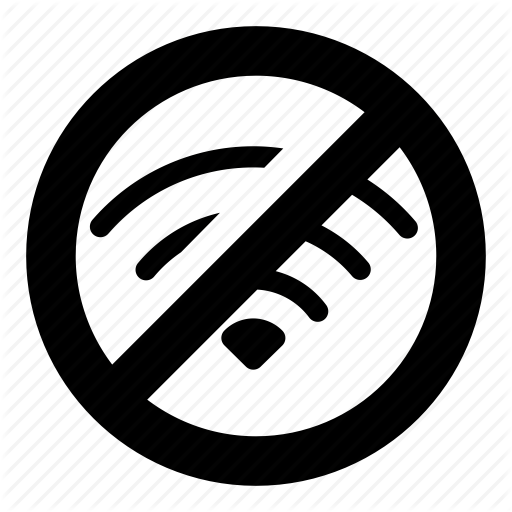
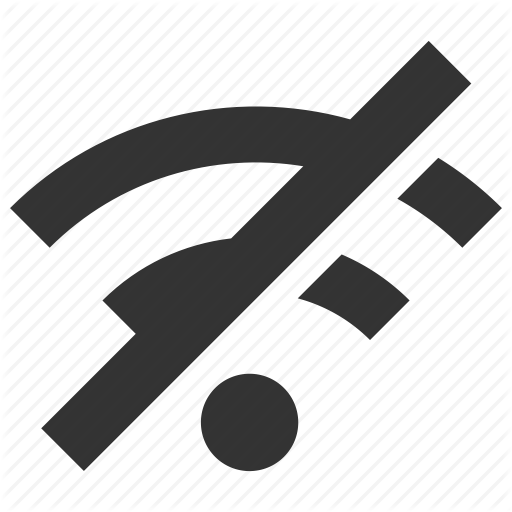
landing page

diff --git a/facilito-app/src/App.js b/facilito-app/src/App.js
@@ -1,36 +1,70 @@
 import React, { Component } from 'react';
-import { Card, Button, Segment } from 'semantic-ui-react';
-
+import MuiThemeProvider from 'material-ui/styles/MuiThemeProvider';
+import RaisedButton from 'material-ui/RaisedButton';
+import { Card, CardText } from 'material-ui/Card'
 import Title from './components/title';
 
 import './App.css';
+import { indigo400, redA400, lightBlueA400, amberA400 } from 'material-ui/styles/colors';
 
 class App extends Component {
-
   render() {
     return (
-      <div>
-        <div>
-          <Segment textAlign='left' size='massive' inverted color='blue'>
-            <b>Places</b>
-            <Button floated='right' compact secondary>Crear Cuenta</Button>
-          </Segment>
-          <div>
-            <Title></Title>
-          </div>
-          <div>
-            <ul>
-              <Card >
-                <Card.Content>
-                  <img src={process.env.PUBLIC_URL+'/images/heart.png'}/>
-                  <h3>Calificaciones con emociones</h3>
-                  <p>Califica tus lugares con experiencias, no con numeros</p>
-                </Card.Content>
-              </Card>
-            </ul>
+      <MuiThemeProvider>
+        <div className="Header-background">
+          <div style={{'width':'80%', 'marging':'0 auto'}}>
+            <div className='Header-main'>
+              <Title></Title>
+              <RaisedButton label='Crear cuenta gratuita aquí' secondary/>
+              <img className='Header-illustration' src={process.env.PUBLIC_URL+'/images/place.png'} height='300px' alt=""/>
+            </div>
           </div>
         </div>
-      </div>
+        <div>
+          <ul>
+            <Card className='Header-Benefit'>
+              <CardText >
+                <div className="row">
+                  <div className="Header-Benefit-image" style={{'backgroundColor':redA400}}>
+                    <img src={process.env.PUBLIC_URL+'/images/heart.png'} alt=""/>
+                  </div>
+                  <div className="Header-Benefit-Content">
+                    <h3>Califica con emociones</h3>
+                    <p>Califica tus lugares con experiencias, no con numeros</p>
+                  </div>
+                </div>
+              </CardText>
+            </Card>
+            <Card className='Header-Benefit'>
+              <CardText >
+                <div className="row">
+                  <div className="Header-Benefit-image" style={{'backgroundColor':lightBlueA400}}>
+                    <img src={process.env.PUBLIC_URL+'/images/no-internet.png'} alt=""/>
+                  </div>
+                  <div className="Header-Benefit-Content">
+                    <h3>Sin internet? Sin problemas</h3>
+                    <p>Places puede funcionar sin internet</p>
+                  </div>
+                </div>
+              </CardText>
+            </Card>
+            <Card className='Header-Benefit'>
+              <CardText >
+                <div className="row">
+                  <div className="Header-Benefit-image" style={{'backgroundColor':amberA400}}>
+                    <img src={process.env.PUBLIC_URL+'/images/star.png'} alt=""/>
+                  </div>
+                  <div className="Header-Benefit-Content">
+                    <h3>Guarda tus lugares favoritos</h3>
+                    <p>Siempre tenlos a la mano agregandoles a favoritos</p>
+                  </div>
+                </div>
+              </CardText>
+            </Card>
+          </ul>
+        </div>
+        <div style={{'backgroundColor':indigo400, 'padding':'50px'}}></div>
+      </MuiThemeProvider>
     );
   }
 }

diff --git a/facilito-app/src/App.css b/facilito-app/src/App.css
@@ -7,16 +7,55 @@
   text-align: center;
 }
 
+.Header-Benefit div:not(.Header-Benefit-Content){
+  padding: 0 !important;
+}
+
+.Header-Benefit {
+  width: 32%;
+  display: inline-block;
+  margin-right: 1%;
+  text-align: left;
+  box-sizing: border-box;
+}
+
+.Header-Benefit-Content {
+  flex-basis: 65%;
+  max-width: 65%;
+  padding-top: 10px !important;
+  padding-left: 10px !important;
+  padding-right: 10px !important;
+  padding-bottom: 10px !important;
+}
+
+.Header-Benefit-image {
+  display: flex;
+  align-items: center;
+  justify-content: center;
+  flex-basis: 30%;
+  max-width: 30%;
+  box-sizing:border-box;
+  -webkit-box-flex: 0;
+  -ms-flex: 0 0 auto;
+  flex: 0 0 auto;
+  padding-right: .5rem;
+  padding-left: .5rem
+}
+
+.Header-Benefit-image img {
+  max-width: 100%;
+}
+
 .Header-main{
   margin-bottom: 2em;
-  margin: 0 auto;
+  margin-left: -200px;
 }
 
 .Header-illustration{
   position: absolute;
-  z-index: 0;
-  top: -120px;
-  height: 400px;
+  z-index: -1;
+  top: 60px;
+  height: 300px;
 }
 
 .container{

diff --git a/facilito-app/src/components/title.js b/facilito-app/src/components/title.js
@@ -1,20 +1,14 @@
-import { Grid, Image } from 'semantic-ui-react';
-const React = require('react');
+import React, { Component } from 'react'
 
-export default class Title extends React.Component {
-  render(){
+class Title extends Component {
+  render() {
     return(
-      <Grid centered columns={2}>
-        <Grid.Row centered columns={3}>
-          <Grid.Column>
-            <h1>Places</h1>
-            <p>Descubre lugares de manera simple</p>
-          </Grid.Column>
-          <Grid.Column>
-            <Image centered height='300' src={process.env.PUBLIC_URL+'/images/place.png'} />
-          </Grid.Column>
-        </Grid.Row>
-      </Grid>
+      <div>
+        <h1>Places</h1>
+        <p>Descubre lugares de manera sencilla</p>
+      </div>
     );
   }
 }
+
+export default Title;

diff --git a/facilito-app/public/index.html b/facilito-app/public/index.html
@@ -19,7 +19,8 @@
       work correctly both with client-side routing and a non-root public URL.
       Learn how to configure a non-root public URL by running `npm run build`.
     -->
-    <link rel="stylesheet" href="//cdnjs.cloudflare.com/ajax/libs/semantic-ui/2.2.12/semantic.min.css"></link>
+    <link rel="stylesheet" href="https://cdnjs.cloudflare.com/ajax/libs/flexboxgrid/6.3.1/flexboxgrid.min.css
+">
     <title>React App</title>
   </head>
   <body>
